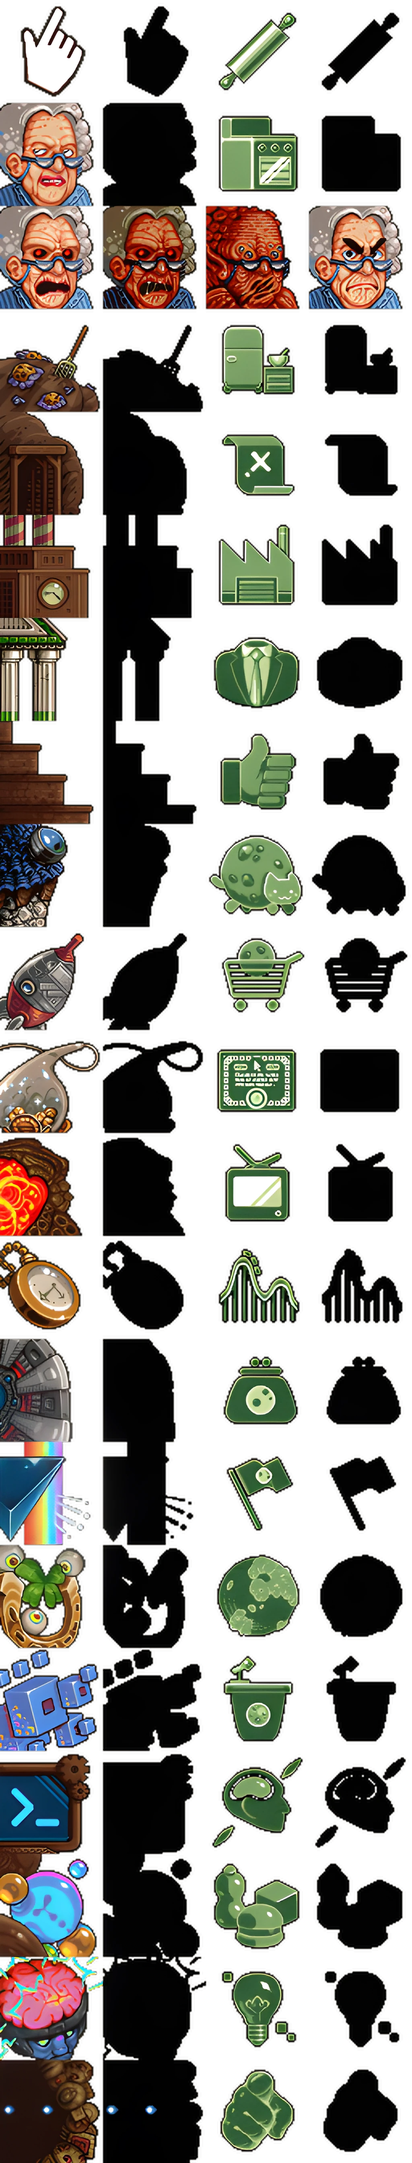
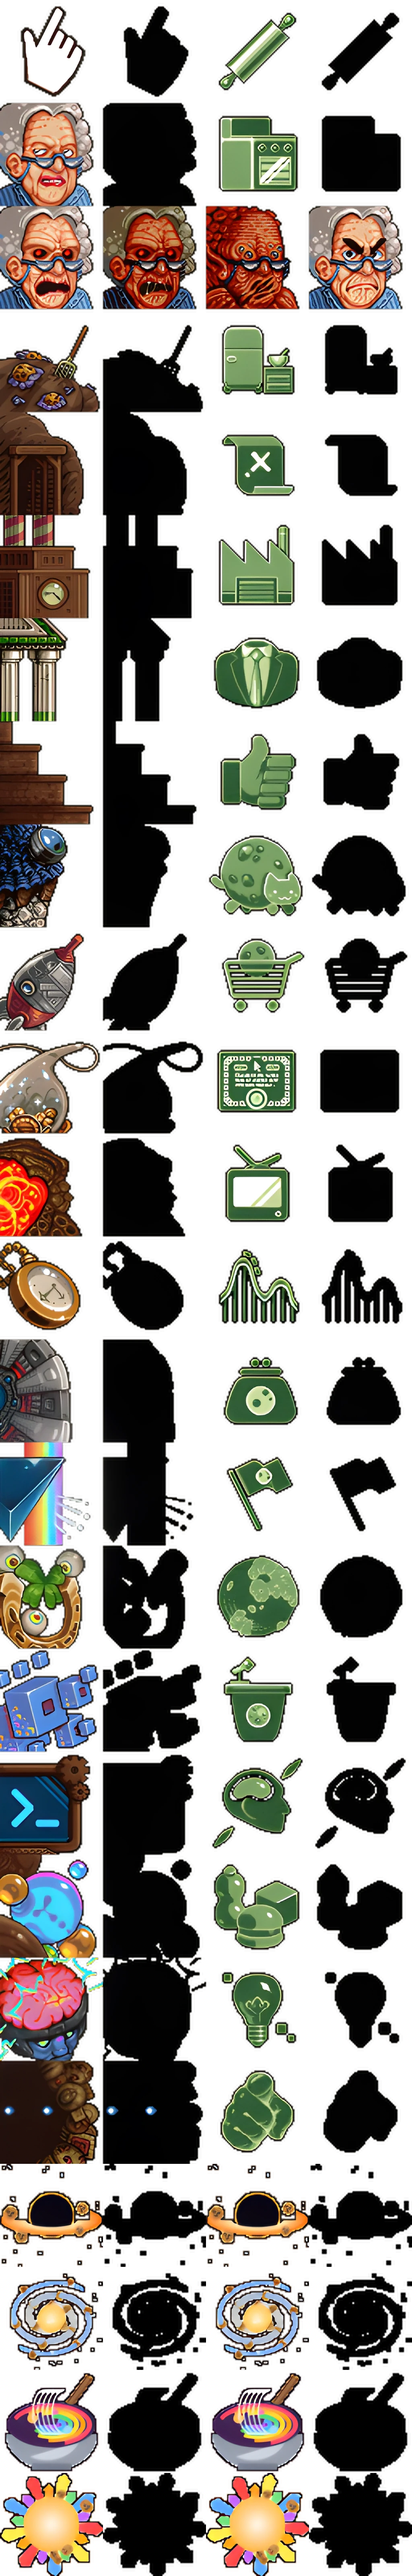
New content: 4 buildings (Black hole, Galaxy, Multiverse mixer, Big bang), 60 tier upgrades, 4 unshackled upgrades, 6 cookies, with new art
Claude-Session: https://claude.ai/code/session_01SgrqsSUxdtcD5wP9ZbG3Cd

diff --git a/CookieClicker/mods/more-content.js b/CookieClicker/mods/more-content.js
@@ -1,0 +1,163 @@
+/*
+	Extra content for the iOS app: 4 new buildings after "You", each with 15 tiered upgrades and an
+	"Unshackled" prestige upgrade, plus 6 new cookies. Built with the game's own G.Building and G.Upgrade,
+	so they show up in the store, save and load, and follow the same rules as everything else.
+	The app serves this file right after data.js. Upgrade ids start at 2000 to stay clear of the game's own.
+	Art: icons.png and buildings.png are served extended with new columns/rows (see mods/).
+*/
+G.addData(function(){
+
+	const BUILDINGS=[
+		{
+			name:`Black hole`,single:`black hole`,plural:`black holes`,actionName:`pulled in`,
+			extraName:`[X] extra event horizon`,extraPlural:`[X] extra event horizons`,
+			desc:`Pulls in cookies from across the universe and squeezes them into denser, tastier ones.`,
+			foolName:`Bottomless jar`,foolPlural:`Bottomless jars`,foolDesc:`A cookie jar so deep, nobody has ever seen the bottom.`,
+			cost:2.4e28,cps:4.1e15,
+			tiers:[
+				[`Spaghettification`,`Cookies stretched infinitely thin are technically the same cookie. Legally, this means unlimited cookies.`],
+				[`Accretion sprinkles`,`Matter spiraling in at near light-speed heats up into a glowing ring of rainbow sprinkles.`],
+				[`Hawking radiators`,`Your black holes slowly leak warmth back out, which turns out to be the perfect temperature for proofing dough.`],
+				[`Event horizon ovens`,`Time stops at the edge, so cookies never burn. They also never finish baking, but we're working on it.`],
+				[`Gravitational lensing`,`Bends light around the bakery so every customer sees exactly the cookie they wanted.`],
+				[`Supermassive appetite`,`Your black holes have been encouraged to eat more. It's working. Please stand back.`],
+				[`Singularity frosting`,`An infinitely dense dollop of frosting. One serving covers about four billion cookies.`],
+				[`Wormhole delivery`,`Cookies go in one end and come out in a customer's mouth on the other side of the galaxy. Some assembly required.`],
+				[`Dark flour`,`Makes up 85% of all the flour in the universe, yet nobody can see it. Excellent for invisible pastries.`],
+				[`Tidal kneading`,`Gravity kneads the dough for you, pulling and stretching it from every direction at once.`],
+				[`No-hair theorem`,`Black holes have no hair. That's one less thing to find in the cookies.`],
+				[`Quasar ignition`,`Feed a black hole enough cookie dough and it lights up brighter than a trillion suns. Excellent for midnight baking.`],
+				[`Information paradox`,`Recipes thrown in never come out, which is great for protecting trade secrets.`],
+				[`Kugelblitz`,`A black hole made from pure light instead of matter. Bakes cookies with a satisfying crunch.`],
+				[`White hole reversal`,`The opposite of a black hole: nothing goes in, and cookies just keep coming out. Nobody is asking questions.`],
+			],
+			unshackle:`They were never really holding back.`,
+		},
+		{
+			name:`Galaxy`,single:`galaxy`,plural:`galaxies`,actionName:`spun up`,
+			extraName:`[X] extra spiral arm`,extraPlural:`[X] extra spiral arms`,
+			desc:`A whole spiral of a billion cookie-stars, slowly turning towards your bank account.`,
+			foolName:`Cookie sampler`,foolPlural:`Cookie samplers`,foolDesc:`An assortment of every cookie flavor. Somebody always takes the last good one.`,
+			cost:5.5e30,cps:3.3e16,
+			tiers:[
+				[`Milky Way`,`The original. Named after the milk it was dunked in.`],
+				[`Spiral arm conveyor`,`Cookies ride the galaxy's spiral arms all the way out to the shipping docks. It only takes 200 million years.`],
+				[`Star nurseries`,`Clouds of gas and sugar where young cookie-stars are born and raised.`],
+				[`Galactic core bakery`,`The center of every galaxy is crowded, hot and loud. Perfect for an industrial oven.`],
+				[`Dark matter halo`,`An invisible ring of something holds your galaxies together. You suspect it's caramel.`],
+				[`Andromeda merger`,`Two galaxies colliding at incredible speed. The cookies inside barely notice, but they do get mixed up nicely.`],
+				[`Nebula icing`,`Glowing pastel clouds, light-years wide, piped on in a single swirl.`],
+				[`Globular clusters`,`Tight little balls of very old stars. Great for chewy cookies.`],
+				[`Interstellar sugar lanes`,`Trade routes between the stars, lined with sugar-coated rest stops.`],
+				[`Cosmic web`,`Galaxies are strung together like beads on a necklace, which makes them a lot easier to carry to market.`],
+				[`Redshift glaze`,`Cookies moving away from you look slightly redder. Customers say they taste like strawberry.`],
+				[`Hubble expansion`,`The universe keeps getting bigger, so there's always room for another bakery.`],
+				[`Galactic federation`,`A council of a thousand galaxies has unanimously voted that you deserve more cookies.`],
+				[`Laniakea`,`Your galaxies belong to a supercluster whose name means "immeasurable heaven". The real estate is very expensive.`],
+				[`The great attractor`,`Something out there is pulling every galaxy towards it. You've decided it's your shop.`],
+			],
+			unshackle:`Spin it faster.`,
+		},
+		{
+			name:`Multiverse mixer`,single:`multiverse mixer`,plural:`multiverse mixers`,actionName:`stirred`,
+			extraName:`[X] extra speed setting`,extraPlural:`[X] extra speed settings`,
+			desc:`Stirs every possible universe together into one enormous bowl of cookie batter.`,
+			foolName:`Stand mixer`,foolPlural:`Stand mixers`,foolDesc:`Every kitchen's best friend. Also very loud.`,
+			cost:1.3e33,cps:2.7e17,
+			tiers:[
+				[`Infinite whisk`,`A whisk with more wires than there are atoms. Cleaning it is a different universe's problem.`],
+				[`Fold in gently`,`Universes are delicate. Fold them in slowly, or physics gets lumpy.`],
+				[`Many-worlds batter`,`In every branch of reality, someone is eating one of your cookies. That's a lot of branches.`],
+				[`Parallel pantry`,`Ran out of eggs? Borrow some from a universe where you didn't.`],
+				[`Quantum creaming`,`Butter and sugar are creamed together and not creamed together until somebody looks.`],
+				[`Probability sifter`,`Shakes out the lumpy, unlikely universes, keeping only the smoothest outcomes.`],
+				[`Alternate you sous-chefs`,`Hire the versions of you that went to culinary school. They're a little smug about it.`],
+				[`Dimensional dough hook`,`Kneads dough in seven directions at once. Two of them you can't see.`],
+				[`Reality emulsifier`,`Keeps mutually exclusive universes from separating, like oil and vinegar but much louder.`],
+				[`Cross-world taste testers`,`They try every cookie in every universe, and report back on which one is best. It's always yours.`],
+				[`Paradox proofing`,`Lets the dough rise before you've mixed it. Saves a lot of time.`],
+				[`Omni-flavor extract`,`Every flavor that ever was or could be, in one tiny bottle. Just a drop, please.`],
+				[`Universe-scale bowl`,`Your mixing bowl is now larger than the observable universe. Finding a sink for it remains an issue.`],
+				[`Turbo setting`,`The mixer was never meant to go this fast. Several universes have been flung against the wall.`],
+				[`Everything everywhere all at once`,`Every universe mixed in, every cookie baked, all at the same time. Somehow it still needs to cool on a rack.`],
+			],
+			unshackle:`Set it to eleven.`,
+		},
+		{
+			name:`Big bang`,single:`big bang`,plural:`big bangs`,actionName:`exploded`,
+			extraName:`[X] extra second of creation`,extraPlural:`[X] extra seconds of creation`,
+			desc:`Restarts reality from scratch, over and over, keeping only the cookies each time.`,
+			foolName:`Party popper`,foolPlural:`Party poppers`,foolDesc:`Celebrate good times with a little explosion of confetti.`,
+			cost:3e35,cps:2.2e18,
+			tiers:[
+				[`Primordial dough`,`In the very first second, everything was a hot, dense ball of cookie dough. Some scientists believe it still is.`],
+				[`Cosmic inflation`,`The universe doubled in size a hundred times in a split second. So did your profits.`],
+				[`Recombination`,`As the universe cooled, flour and water finally came together. It took about 380,000 years.`],
+				[`Background radiation`,`A faint, warm glow left over from the beginning of time. It smells faintly of fresh cookies.`],
+				[`First stars`,`The very first stars were huge and very hot. They made excellent ovens.`],
+				[`Nucleosynthesis`,`Forging the heavy elements needed for good cookies: carbon, oxygen, and the rare earth metal chocolatium.`],
+				[`Big crunch`,`Eventually, the universe collapses back into a single point. Satisfying, but very crumbly.`],
+				[`Big bounce`,`After every crunch comes another bang. It's a reliable business model.`],
+				[`Fine-tuned constants`,`Tweaked the laws of physics so that cookies come out slightly chewier.`],
+				[`Planck-time timer`,`A kitchen timer precise to 10^-44 seconds. Overbaking is now impossible.`],
+				[`Baby universes`,`Little pocket universes bud off the big one. They grow up so fast.`],
+				[`Eternal inflation`,`New universes keep popping into existence forever, like popcorn in a microwave that never stops.`],
+				[`Vacuum decay`,`If the universe falls into a lower energy state, everything is replaced by cookies. You've been rooting for it.`],
+				[`Second law repeal`,`Your lawyers successfully argued that entropy shouldn't apply to baked goods.`],
+				[`Let there be cookies`,`And there were cookies, and it was good.`],
+			],
+			unshackle:`Louder this time.`,
+		},
+	];
+
+	let unshackleCost=19200000000000000;//after "Unshackled You"
+	let unshackleParent=`Unshackled You`;
+	BUILDINGS.forEach(function(o,n){
+		let me=new G.Building({
+			name:o.name,single:o.single,plural:o.plural,actionName:o.actionName,
+			extraName:o.extraName,extraPlural:o.extraPlural,desc:o.desc,
+			foolName:o.foolName,foolPlural:o.foolPlural,foolDesc:o.foolDesc,
+			pic:21+n,icon:[36+n,0],
+			cost:o.cost,cps:o.cps,
+		});
+		//the game works out price and output from the building's position; set them to follow the same curve as the last buildings
+		me.baseCost=o.cost;
+		me.baseCps=o.cps;
+
+		o.tiers.forEach(function(t,i){
+			let tier=i+1;
+			new G.Upgrade({
+				name:t[0],id:2000+n*20+i,q:t[1],
+				cost:o.cost*5*G.tiers[tier].price,//the game's tier prices are based on about 5x a building's starting price
+				pool:`building`,order:1800+n*100+tier*0.001,tie:me.id,tier:tier,
+			});
+		});
+
+		unshackleCost*=1.43;
+		let unshackle=new G.Upgrade({
+			name:`Unshackled ${o.plural}`,id:2000+n*20+15,q:o.unshackle,
+			icon:[36+n,35],order:768.02+n*0.001,cost:Math.round(unshackleCost/1e9)*1e9,
+			pool:'unshackle',tie:me.id,parents:[unshackleParent],
+			desc:`Tiered upgrades for <b>${cap(o.plural)}</b> provide an extra <b>+10%</b> production.<br>Only works with unshackled upgrade tiers.`,
+		});
+		unshackle.power=0.1;
+		unshackleParent=unshackle.name;
+	});
+
+	const COOKIES=[
+		[`Stardust snickerdoodles`,`Rolled in cinnamon and a pinch of actual stardust, collected by very patient astronauts.`],
+		[`Supernova shortbread`,`Baked in the last few seconds of a dying star. Crumbly, golden and briefly brighter than the whole galaxy.`],
+		[`Event horizon brownies`,`So rich and dense that not even light can escape. Hard to photograph for the menu.`],
+		[`Comet crinkles`,`Crackled, icy cookies with a long glittery tail of powdered sugar.`],
+		[`Big bang biscotti`,`Twice-baked, at the very beginning of time and again just now. Crunchier than anything in this universe.`],
+		[`Nebula meringues`,`Light, airy and swirled with every color of a starry gas cloud. Mostly air, but very pretty air.`],
+	];
+	COOKIES.forEach(function(c,i){
+		let cost=1e70*Math.pow(Math.sqrt(10),i);
+		new G.Upgrade({
+			name:c[0],id:2100+i,q:c[1],icon:[40,i],
+			cost:cost,pool:`cookie`,order:10020.9+i*0.001,power:5,
+			unlockAt:{cookies:cost/20},
+		});
+	});
+});

diff --git a/CookieClicker/LocalSchemeHandler.swift b/CookieClicker/LocalSchemeHandler.swift
@@ -9,6 +9,16 @@ final class LocalSchemeHandler: NSObject, WKURLSchemeHandler {
 
     private let root: URL = Bundle.main.resourceURL!.appendingPathComponent("www", isDirectory: true)
     private let hdRoot: URL = Bundle.main.resourceURL!.appendingPathComponent("hd", isDirectory: true)
+    private let modsRoot: URL = Bundle.main.resourceURL!.appendingPathComponent("mods", isDirectory: true)
+
+    private static func joined(_ first: URL, _ second: URL) -> Data? {
+        guard var data = try? Data(contentsOf: first) else { return nil }
+        if let extra = try? Data(contentsOf: second) {
+            data.append(Data("\n;\n".utf8))
+            data.append(extra)
+        }
+        return data
+    }
 
     private static let mimeTypes: [String: String] = [
         "html": "text/html", "js": "text/javascript", "css": "text/css",
@@ -31,6 +41,15 @@ final class LocalSchemeHandler: NSObject, WKURLSchemeHandler {
             data = Self.sharpIndexHTML(from: root.appendingPathComponent("index.html"))
         } else if path == "lib/main.js" {
             data = Self.smoothScrollingLib(from: root.appendingPathComponent("lib/main.js"))
+        } else if path == "main.js" || path == "test_main.js" {
+            data = Self.withNewBuildingBuffs(from: root.appendingPathComponent(path))
+        } else if path == "data.js" || path == "test_data.js" {
+            // the game's data, followed by the extra buildings, upgrades and cookies
+            data = Self.joined(root.appendingPathComponent(path), modsRoot.appendingPathComponent("more-content.js"))
+        } else if path == "img/icons.png" || path == "img/buildings.png" {
+            // the same sprite sheets with the new art added in extra columns/rows
+            data = (try? Data(contentsOf: modsRoot.appendingPathComponent((path as NSString).lastPathComponent)))
+                ?? (try? Data(contentsOf: root.appendingPathComponent(path)))
         } else {
             // "hd/..." is the folder of sharper artwork; everything else comes from the game's www folder
             let base = path.hasPrefix("hd/") ? hdRoot : root
@@ -58,6 +77,20 @@ final class LocalSchemeHandler: NSObject, WKURLSchemeHandler {
     }
 
     func webView(_ webView: WKWebView, stop urlSchemeTask: WKURLSchemeTask) {}
+
+    /// Golden cookies can boost (or rust) one building type; the game lists a buff name pair for every
+    /// building, so the new buildings from mods/more-content.js need theirs added to that list.
+    private static func withNewBuildingBuffs(from url: URL) -> Data? {
+        guard let data = try? Data(contentsOf: url), let js = String(data: data, encoding: .utf8) else { return nil }
+        let anchor = "'You':['Deduplication','Clone strike'],"
+        guard js.components(separatedBy: anchor).count == 2 else { return data }
+        let extra = anchor
+            + "'Black hole':['Event horizon','Evaporation'],"
+            + "'Galaxy':['Starburst','Galactic drift'],"
+            + "'Multiverse mixer':['Perfect blend','Lumpy batter'],"
+            + "'Big bang':['Cosmic dawn','Heat death'],"
+        return js.replacingOccurrences(of: anchor, with: extra).data(using: .utf8)
+    }
 
     /// The upgrades list only builds the rows on screen and checks the scroll position 4 times a second,
     /// so fast scrolling shows empty space and late, fading rows. Build 6 extra rows above and below,

diff --git a/CookieClicker/CordovaBridgeScript.swift b/CookieClicker/CordovaBridgeScript.swift
@@ -163,7 +163,7 @@ enum CordovaBridgeScript {
     '.nameBox{background-image:linear-gradient(0deg,rgba(0,0,0,0.5),rgba(0,0,0,0.1)),url(hd/marbleSolid.webp);}',
     '.popup{background-image:url(hd/darkNoise.webp);background-size:512px 512px;}',
     '.woodBG{background-image:url(hd/woodPanels.webp);}',
-    '.buildingIcon{background-image:url(hd/buildings.webp);background-size:256px 1344px;}'
+    '.buildingIcon{background-image:url(hd/buildings.webp);background-size:256px 1600px;}'
   ].join('\n');
   (document.head || document.documentElement).appendChild(hdCss);
 
